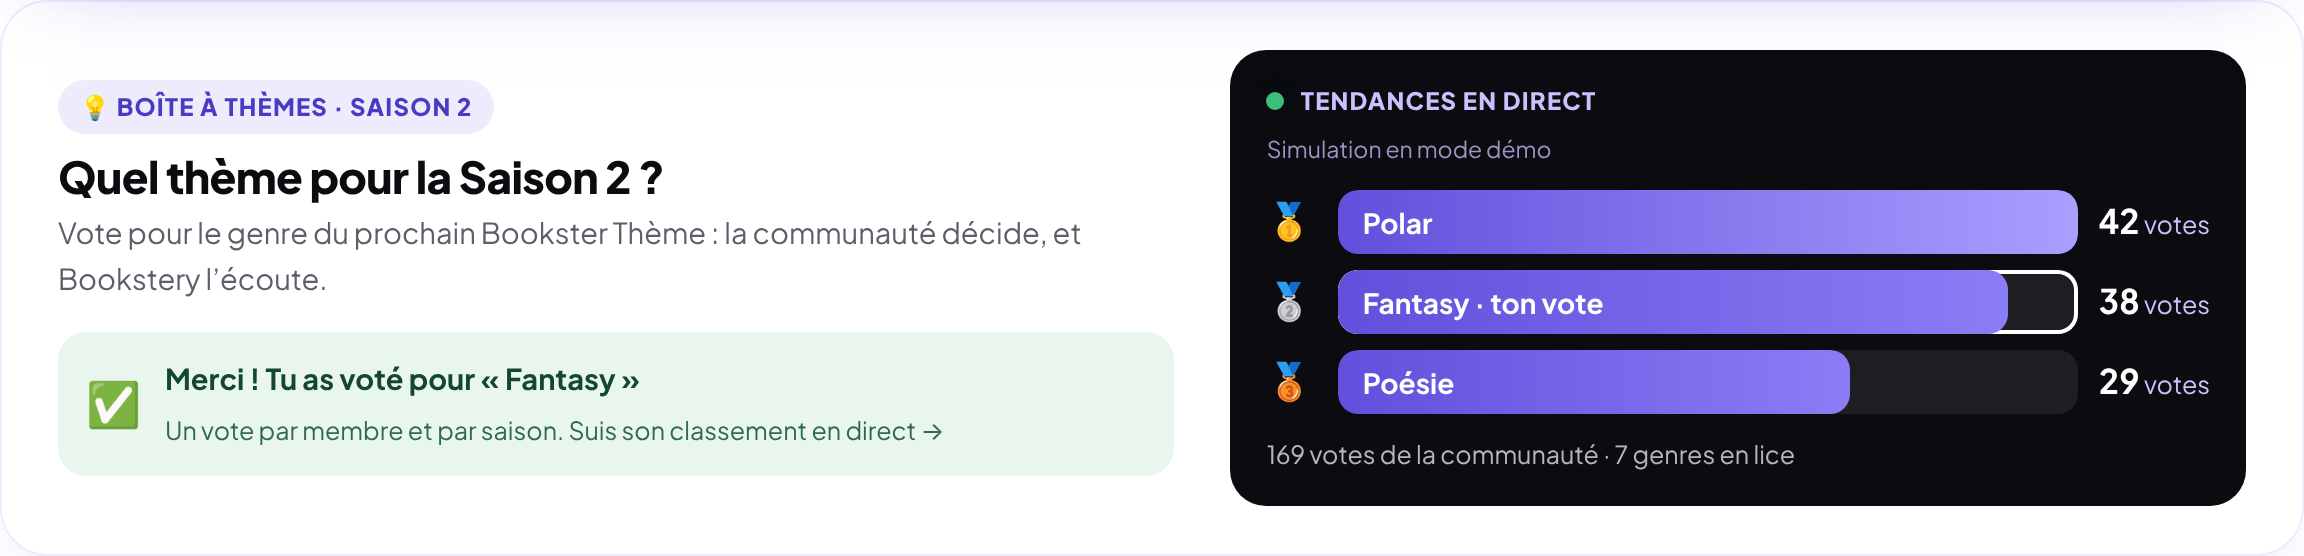
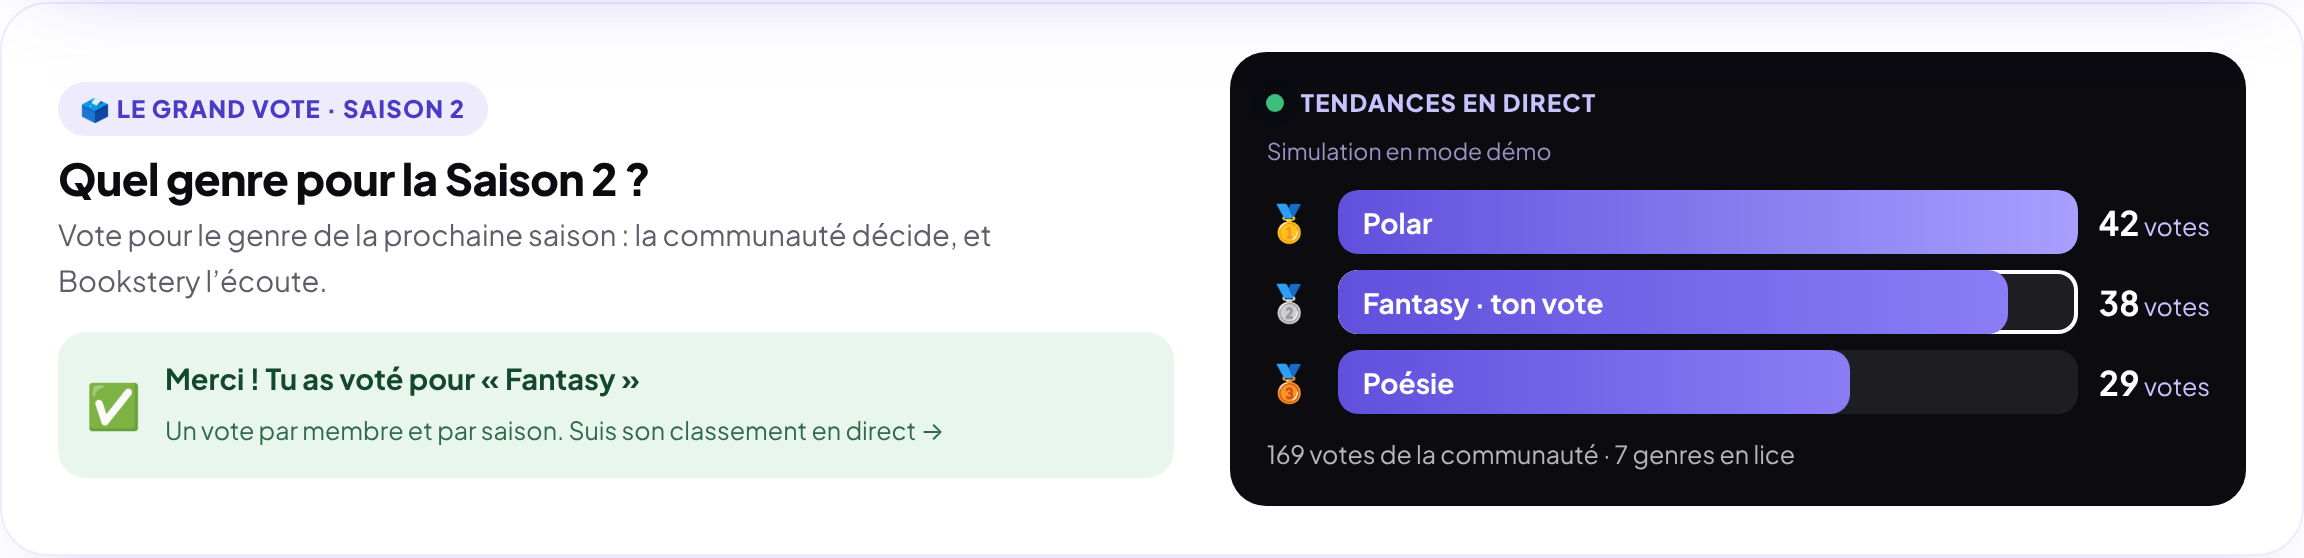
Boîte à Thèmes renommée « Le Grand Vote » : Quel genre pour la Saison 2 ?
Claude-Session: https://claude.ai/code/session_01EPa3evC84KLMU14gb8iTX3

diff --git a/index.html b/index.html
@@ -1108,7 +1108,7 @@ footer .legal{grid-column:1/-1;border-top:1px solid var(--line);padding-top:18px
 .sz-bag{margin:0!important;font-size:12.5px!important;color:#fff!important;background:#0B0B10;border-radius:12px;padding:9px 11px;line-height:1.45}
 .sz-bag b{color:#C9C2FF}
 @media(max-width:760px){.saison{flex-direction:column;align-items:stretch;padding:22px 18px}.sz-r{min-width:0}.sz-cd b{font-size:20px}}
-/* ---------- Boîte à Thèmes (Saison 2) ---------- */
+/* ---------- Le Grand Vote (Saison 2) ---------- */
 .bt{display:grid;grid-template-columns:1.1fr 1fr;gap:28px;align-items:center;background:#fff;border:1.5px solid var(--maj-l);border-radius:24px;padding:24px 28px;box-shadow:0 14px 34px -22px rgba(96,80,220,.45)}
 .bt.accueil{margin:0 0 22px}
 .bt.profil{grid-template-columns:1fr;gap:16px;padding:18px;border-radius:18px;margin:4px 0 16px}
@@ -1267,7 +1267,7 @@ footer .legal{grid-column:1/-1;border-top:1px solid var(--line);padding-top:18px
 
   <div class="wrap">
     <div class="saison-slot" data-saison="accueil"><section class="saison accueil" aria-label="Bookster Thème Saison 1"><div class="sz-l"><span class="sz-k">✦ Bookster Thème · Saison 1 <i>(janvier – juin 2027)</i></span><h2 class="sz-t">Spécial Nouvelles</h2><p class="sz-p">Tous les Mystery Drops de cette saison mettent à l’honneur la nouvelle littéraire&nbsp;!</p><div class="sz-rc"><b class="sz-rc-t">📚 Format Recueil Collectif</b><ol class="sz-steps"><li><span>Janvier → mai</span>Les nouvelles déposées partent en Mystery Drops et sont lues, notées par les Booksters.</li><li><span>Juin · la finale</span>Les <b>Bookster VIP</b> élisent le <b>Top 8</b> des meilleures nouvelles de la saison.</li><li><span>Le palmarès</span>Le n°1 est sacré <b>🏆 Golden Bookster</b>, en tête d’affiche du livre, et les <b>8 lauréats</b> sont publiés ensemble dans le premier <b>Recueil Collectif Bookstery</b>, en librairie partenaire.</li></ol><a class="sz-reg" href="legal.html#c-saison1">Lire le règlement de la saison →</a></div><button class="sz-btn" type="button" data-auteur>Écrire ma nouvelle</button></div><div class="sz-ruban" role="note"><div class="sz-rt"><span class="sz-ri">🔒 Saison 2 · pas encore disponible</span><span class="sz-ri">Ouverture le 1er juillet 2027</span><span class="sz-ri">Thème bientôt dévoilé</span><span class="sz-ri">🔒 Saison 2 · pas encore disponible</span><span class="sz-ri">Ouverture le 1er juillet 2027</span><span class="sz-ri">Thème bientôt dévoilé</span><span class="sz-ri">🔒 Saison 2 · pas encore disponible</span><span class="sz-ri">Ouverture le 1er juillet 2027</span><span class="sz-ri">Thème bientôt dévoilé</span><span class="sz-ri">🔒 Saison 2 · pas encore disponible</span><span class="sz-ri">Ouverture le 1er juillet 2027</span><span class="sz-ri">Thème bientôt dévoilé</span></div></div></section></div>
-    <div class="themes-slot" data-themes="accueil"><section class="bt accueil" aria-label="Boîte à Thèmes Saison 2"><div class="bt-l"><span class="bt-k">💡 Boîte à Thèmes · Saison 2</span><h3 class="bt-t">Quel thème pour la Saison 2&nbsp;?</h3><p class="bt-p">Propose le prochain Bookster Thème&nbsp;: la communauté décide, et Bookstery l’écoute.</p><div class="bt-grid"><span class="bt-g">Aventure</span><span class="bt-g">BD</span><span class="bt-g">Classiques</span><span class="bt-g">Fantasy</span><span class="bt-g">Feel-good</span><span class="bt-g">Horreur</span><span class="bt-g">Manga</span><span class="bt-g">Nouvelles</span><span class="bt-g">Poésie</span><span class="bt-g">Polar</span><span class="bt-g">Romance</span><span class="bt-g">Science-fiction</span><span class="bt-g">Thriller</span><span class="bt-g">Young Adult</span></div></div><div class="bt-r"><div class="bt-live"><span class="bt-dot"></span>Tendances en direct</div><p class="bt-empty">Chargement des tendances…</p></div></section></div>
+    <div class="themes-slot" data-themes="accueil"><section class="bt accueil" aria-label="Le Grand Vote Saison 2"><div class="bt-l"><span class="bt-k">🗳 Le Grand Vote · Saison 2</span><h3 class="bt-t">Quel genre pour la Saison 2&nbsp;?</h3><p class="bt-p">Vote pour le genre de la prochaine saison&nbsp;: la communauté décide, et Bookstery l’écoute.</p><div class="bt-grid"><span class="bt-g">Aventure</span><span class="bt-g">BD</span><span class="bt-g">Classiques</span><span class="bt-g">Fantasy</span><span class="bt-g">Feel-good</span><span class="bt-g">Horreur</span><span class="bt-g">Manga</span><span class="bt-g">Nouvelles</span><span class="bt-g">Poésie</span><span class="bt-g">Polar</span><span class="bt-g">Romance</span><span class="bt-g">Science-fiction</span><span class="bt-g">Thriller</span><span class="bt-g">Young Adult</span></div></div><div class="bt-r"><div class="bt-live"><span class="bt-dot"></span>Tendances en direct</div><p class="bt-empty">Chargement des tendances…</p></div></section></div>
     <ul class="vprops" aria-label="Pourquoi Bookstery">
       <li><span class="vp-ico" aria-hidden="true"><svg width="22" height="22" viewBox="0 0 24 24" fill="none" stroke="currentColor" stroke-width="2" stroke-linecap="round" stroke-linejoin="round"><path d="M4 19.5V5a2 2 0 0 1 2-2h13v16H6a2 2 0 0 0-2 2.5Z"/><path d="M8 7h7M8 11h5"/></svg></span><div><b>Des livres d’occasion près de chez toi</b><span>Vendus par des Booksters, avec photos réelles de chaque exemplaire.</span></div></li>
       <li><span class="vp-ico" aria-hidden="true"><svg width="22" height="22" viewBox="0 0 24 24" fill="none" stroke="currentColor" stroke-width="2" stroke-linecap="round" stroke-linejoin="round"><rect x="3" y="8" width="18" height="13" rx="2"/><path d="M12 8v13M3 12h18M12 8c-2-4-6-4-6-1.5S10 8 12 8Zm0 0c2-4 6-4 6-1.5S14 8 12 8Z"/></svg></span><div><b>Un manuscrit mystère offert dès 10&nbsp;€</b><span>Un texte inédit d’un auteur indépendant glissé dans ton panier.</span></div></li>
@@ -3338,7 +3338,7 @@ var AIDE_FAQ=[
  {k:"refuse refus pourquoi depot bloque verification moderation ia detecteur plagiat fautes",a:"Avant tout dépôt, on vérifie que le texte est **original** (anti-plagiat), conforme à la charte, en français, littéraire et lisible, puis le **détecteur d’IA** (au-delà de 50 % d’écriture générée, il est refusé). Le message de refus t’explique la raison ; pour des fautes, tu peux relire et redéposer."},
  {k:"fondateur badge fondateur createur textes du fondateur",a:"Pour lancer la plateforme, le **fondateur de Bookstery** partage ses propres textes. Ils portent le badge **★ Fondateur Bookstery**, passent les mêmes vérifications que les autres, sont tirés dans les Mystery Drops **sans aucune priorité**, et ne peuvent pas gagner le Golden Bookster ni les prix des librairies partenaires."},
  {k:"saison saisons theme thematique bookster theme nouvelles nouvelle speciale semestre saison 2 golden book concours",a:"Chaque semestre a son **Bookster Thème**. **Saison 1 (janvier – juin 2027) : Spécial Nouvelles** : tous les Mystery Drops de la saison mettent à l’honneur la nouvelle littéraire, les auteurs déposent des nouvelles courtes complètes, et à la finale de juin, les Bookster VIP élisent le **Top 8** : le n°1 est sacré **Golden Bookster** et les 8 lauréats sont publiés ensemble dans le premier **Recueil Collectif Bookstery**, en librairie partenaire. Dès 10 € d’achat, quel que soit le livre, ton Mystery Drop est une nouvelle de la saison. La Saison 2 ouvre le 1er juillet 2027 : compte à rebours sur l’accueil !"},
- {k:"boite a themes boite theme proposer proposition idee saison 2 tendance vote",a:"La **Boîte à Thèmes** (sur l’accueil et dans ton espace) te permet de voter pour le genre de la **prochaine saison** : clique sur un genre (polar, fantasy, poésie…, les genres utilitaires ne sont pas proposés) puis sur « Voter ». **Un vote par membre**, il faut être connecté. Les 3 thèmes les plus demandés s’affichent en direct, avec leur nombre de votes."},
+ {k:"grand vote boite a themes boite theme genre proposer proposition idee saison 2 tendance vote",a:"**Le Grand Vote** (sur l’accueil et dans ton espace) te permet de voter pour le genre de la **prochaine saison** : clique sur un genre (polar, fantasy, poésie…, les genres utilitaires ne sont pas proposés) puis sur « Voter ». **Un vote par membre**, il faut être connecté. Les 3 thèmes les plus demandés s’affichent en direct, avec leur nombre de votes."},
  {k:"pack accelerateur abonnement auteur boost prioritaire statistiques stats 15 resilier arreter desabonner",a:"Le **Pack Accélérateur Auteurs** coûte **15 € par mois, sans engagement**. Tant qu’il est actif, ton texte a **3× plus de chances** d’être tiré dans les Mystery Drops de son genre, et tu vois **tes statistiques de lecture** (envois, lectures, avis, note, abonnés). Pour l’activer ou l’arrêter : Espace auteur, onglet « ⚡ Pack Accélérateur ». L’arrêt se fait en 1 clic et le Pack reste actif jusqu’à la fin du mois payé."},
  {k:"certificat horodatage preuve sha empreinte droit auteur",a:"Ton **certificat d’horodatage** contient la date et l’heure du dépôt et une empreinte SHA-256 unique de ton texte : il prouve que tu l’avais écrit à cette date. Tu le retrouves dans « **Mes textes déposés** »."},
  {k:"avis note noter etoiles suivre abonne auteur commentaire",a:"À la fin d’un manuscrit mystère, tu peux noter l’auteur (1 à 5 étoiles), lui laisser un mot (il le reçoit par e-mail) et le **suivre**."},
@@ -3592,7 +3592,7 @@ function renderSaisons(){document.querySelectorAll(".saison-slot").forEach(funct
 setInterval(function(){document.querySelectorAll("[data-cd]").forEach(function(el){el.innerHTML=rebours(Date.parse(el.getAttribute("data-cd"))-Date.now())})},1000);
 try{renderSaisons()}catch(e){console.error("Bookstery : bannière",e)}
 
-/* ================= Boîte à Thèmes : la communauté propose le thème de la saison suivante ================= */
+/* ================= Le Grand Vote : la communauté vote pour le genre de la saison suivante ================= */
 /* Genres votables : tous les genres du site sauf les utilitaires (scolaire, cuisine, guides…) */
 function genresVotables(){return GENRES.filter(function(g){return!isUtilitaire(g)})}
 var themeChoix=null;
@@ -3628,12 +3628,12 @@ function themeFormHtml(nx){
   return'<form class="bt-form" novalidate><p class="bt-lbl">Clique sur le genre que tu veux pour la '+esc(nx.nom)+'&nbsp;:</p><div class="bt-grid" role="group" aria-label="Genres proposés">'+chips+'</div>'+
     (login?'<div class="bt-login"><p>Connecte-toi pour voter (un vote par membre).</p><button class="btn bt-btn" type="button" data-login>Se connecter</button></div>'
       :'<button class="btn bt-btn bt-go" type="submit"'+(themeChoix?"":" disabled")+'>'+(themeChoix?"Voter pour « "+esc(themeChoix)+" »":"Choisis un genre pour voter")+'</button>')+
-    '<p class="bt-note">Les genres utilitaires (scolaire, cuisine, guides…) ne sont pas proposés : un Bookster Thème est toujours littéraire.</p><p class="bt-msg" role="alert"></p></form>';
+    '<p class="bt-note">Les genres utilitaires (scolaire, cuisine, guides…) ne sont pas proposés : la saison est toujours littéraire.</p><p class="bt-msg" role="alert"></p></form>';
 }
 function renderThemes(){var nx=themeCible();
   document.querySelectorAll(".themes-slot").forEach(function(el,i){if(!nx){el.innerHTML="";return}
-    el.innerHTML='<section class="bt '+el.getAttribute("data-themes")+'" aria-label="Boîte à Thèmes '+esc(nx.nom)+'">'+
-      '<div class="bt-l"><span class="bt-k">💡 Boîte à Thèmes · '+esc(nx.nom)+'</span><h3 class="bt-t">Quel thème pour la '+esc(nx.nom)+'&nbsp;?</h3><p class="bt-p">Vote pour le genre du prochain Bookster Thème&nbsp;: la communauté décide, et Bookstery l’écoute.</p>'+themeFormHtml(nx).replace(/btIn-X/g,"btIn-"+i)+'</div>'+
+    el.innerHTML='<section class="bt '+el.getAttribute("data-themes")+'" aria-label="Le Grand Vote '+esc(nx.nom)+'">'+
+      '<div class="bt-l"><span class="bt-k">🗳 Le Grand Vote · '+esc(nx.nom)+'</span><h3 class="bt-t">Quel genre pour la '+esc(nx.nom)+'&nbsp;?</h3><p class="bt-p">Vote pour le genre de la prochaine saison&nbsp;: la communauté décide, et Bookstery l’écoute.</p>'+themeFormHtml(nx).replace(/btIn-X/g,"btIn-"+i)+'</div>'+
       '<div class="bt-r"><div class="bt-live"><span class="bt-dot"></span>Tendances en direct</div>'+(sb?"":'<i class="bt-demo">Simulation en mode démo</i>')+'<div class="bt-chart" aria-live="polite"></div><p class="bt-tot"></p></div></section>'});
   renderThemeCharts();
 }
@@ -3664,7 +3664,7 @@ async function themeEnvoyer(form){
 }
 document.addEventListener("submit",function(e){var f=e.target.closest(".bt-form");if(f){e.preventDefault();themeEnvoyer(f)}});
 document.addEventListener("click",function(e){var b=e.target.closest("[data-btg]");if(b){var g=b.getAttribute("data-btg");themeChoix=themeChoix===g?null:g;renderThemes();var x=document.querySelector(".bt-g.on");if(x)x.focus({preventScroll:true})}});
-try{themesLoad()}catch(e){console.error("Bookstery : Boîte à Thèmes",e)}
+try{themesLoad()}catch(e){console.error("Bookstery : Grand Vote",e)}
 </script>
 </body>
 </html>

diff --git a/supabase/functions/aide/faq.ts b/supabase/functions/aide/faq.ts
@@ -23,7 +23,7 @@ Bookstery est une plateforme lyonnaise, éthique et circulaire, qui donne une se
 # Bookster Thème (saisons)
 - Chaque semestre a un thème. Saison 1 (janvier – juin 2027) : « Spécial Nouvelles » : tous les Mystery Drops de la saison mettent à l'honneur la nouvelle littéraire. Les auteurs ne peuvent déposer que des nouvelles courtes complètes pendant la saison, Format Recueil Collectif : lors de la finale du mois 6 (juin 2027), les Bookster VIP élisent le Top 8 des meilleures nouvelles ; le n°1 est sacré Golden Bookster (en tête d'affiche du livre) et les 8 lauréats sont publiés ensemble dans le premier Recueil Collectif Bookstery, en librairie partenaire. Règlement : article 7 bis des CGU. Dès 10 € d'achat, quel que soit le livre, le Mystery Drop est une nouvelle approuvée de la saison. Saison 2 : juillet – décembre 2027, thème bientôt dévoilé (compte à rebours sur l'accueil et dans l'Espace auteur).
 
-- Boîte à Thèmes : sur l'accueil et dans « Mon espace », chaque membre connecté peut voter UNE fois pour le genre de la saison suivante en cliquant sur un genre (les genres utilitaires ne sont pas proposés). Les 3 thèmes les plus demandés s'affichent en direct avec leur nombre de votes.
+- Le Grand Vote : sur l'accueil et dans « Mon espace », chaque membre connecté peut voter UNE fois pour le genre de la saison suivante en cliquant sur un genre (les genres utilitaires ne sont pas proposés). Les 3 thèmes les plus demandés s'affichent en direct avec leur nombre de votes.
 
 # Liseuse sécurisée
 - Après la commande, chaque manuscrit mystère a un QR code : scanné avec un téléphone, il ouvre la liseuse. On le retrouve aussi dans « Mes manuscrits mystères » (espace client, ou raccourci dans le Bag).

diff --git a/README.md b/README.md
@@ -15,7 +15,7 @@ Site Bookstery (page statique), repris depuis l'artefact Claude.
 - `supabase/vendeur-pro.sql` — statut du vendeur (particulier / professionnel) affiché sur les annonces
 - `supabase/vip.sql` — statut Bookster VIP : cumul des achats et badge à 30 €
 - `supabase/fondateur.sql` — badge « Fondateur Bookstery » sur les œuvres du fondateur (non éligibles au Golden Bookster et aux prix)
-- `supabase/themes.sql` — Boîte à Thèmes : propositions (1 par membre), compteurs publics en temps réel
+- `supabase/themes.sql` — Le Grand Vote : propositions (1 par membre), compteurs publics en temps réel
 - `supabase/saisons.sql` — Bookster Thème : saison et format des textes, tirage prioritaire dans la saison en cours
 - `supabase/qualite.sql` — contrôle qualité : note IA sur 10 conservée, archivage automatique (moyenne < 2,5/5 après 10 lectures)
 - `supabase/tirage.sql` — tirage équitable des Mystery Drops par genre, sur tous les textes (à exécuter)
@@ -225,7 +225,7 @@ Saison 1 (janvier – juin 2027) : « Spécial Nouvelles », format nouvelle cou
 - **Mystery Drops** : dès 10 €, quel que soit le type de livre, tirés en priorité parmi les nouvelles approuvées de la saison en cours (puis parmi les autres textes s'il n'y en a pas assez).
 - Mise en place : exécuter `supabase/saisons.sql`, puis redéployer `deposer-extrait`, `valider-commande` et `stripe-webhook`.
 
-## Boîte à Thèmes (prochaine saison)
+## Le Grand Vote (genre de la prochaine saison)
 
 Sur l'accueil (sous la bannière de la saison) et dans « Mon espace » :
 - **Vote cliquable** : les 22 genres littéraires du site (genres utilitaires exclus) en pastilles ; un clic sélectionne le genre, puis « Voter pour « … » ». Réservée aux membres connectés, **un vote par membre et par saison** (clé primaire `(saison, membre_id)`, fonction `proposer_theme`). Les variantes d'écriture (« Polar », « polar », « Pölar ») comptent pour le même thème.
